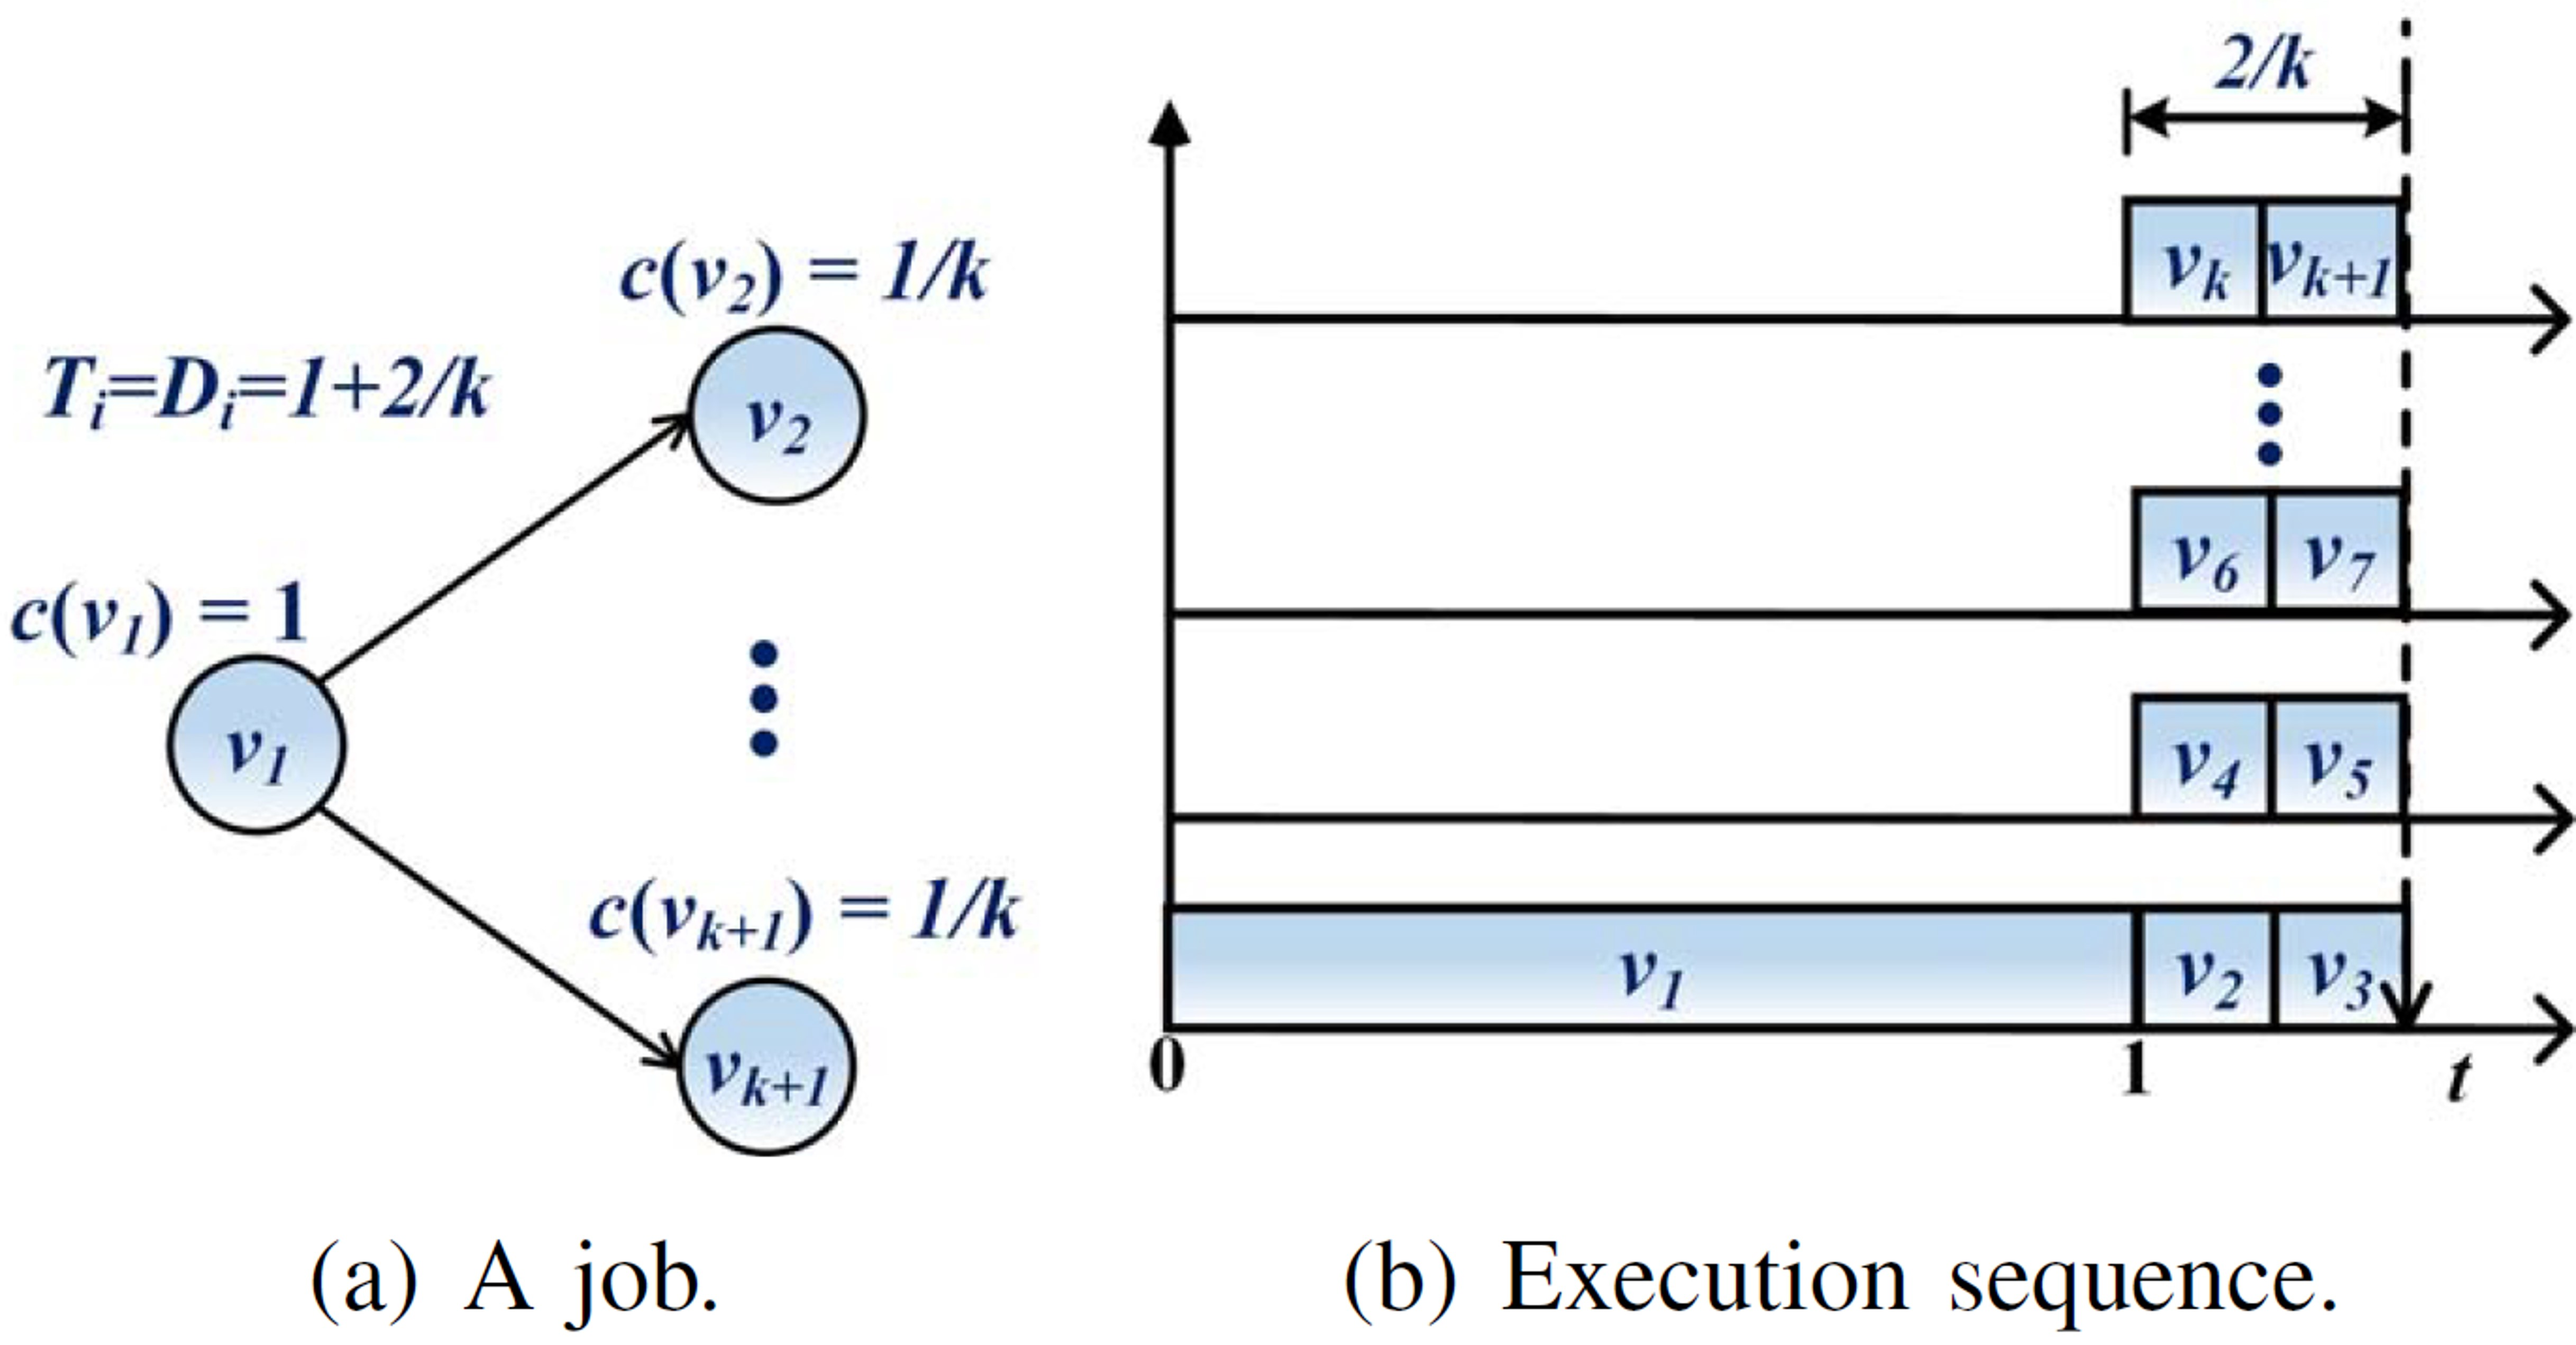
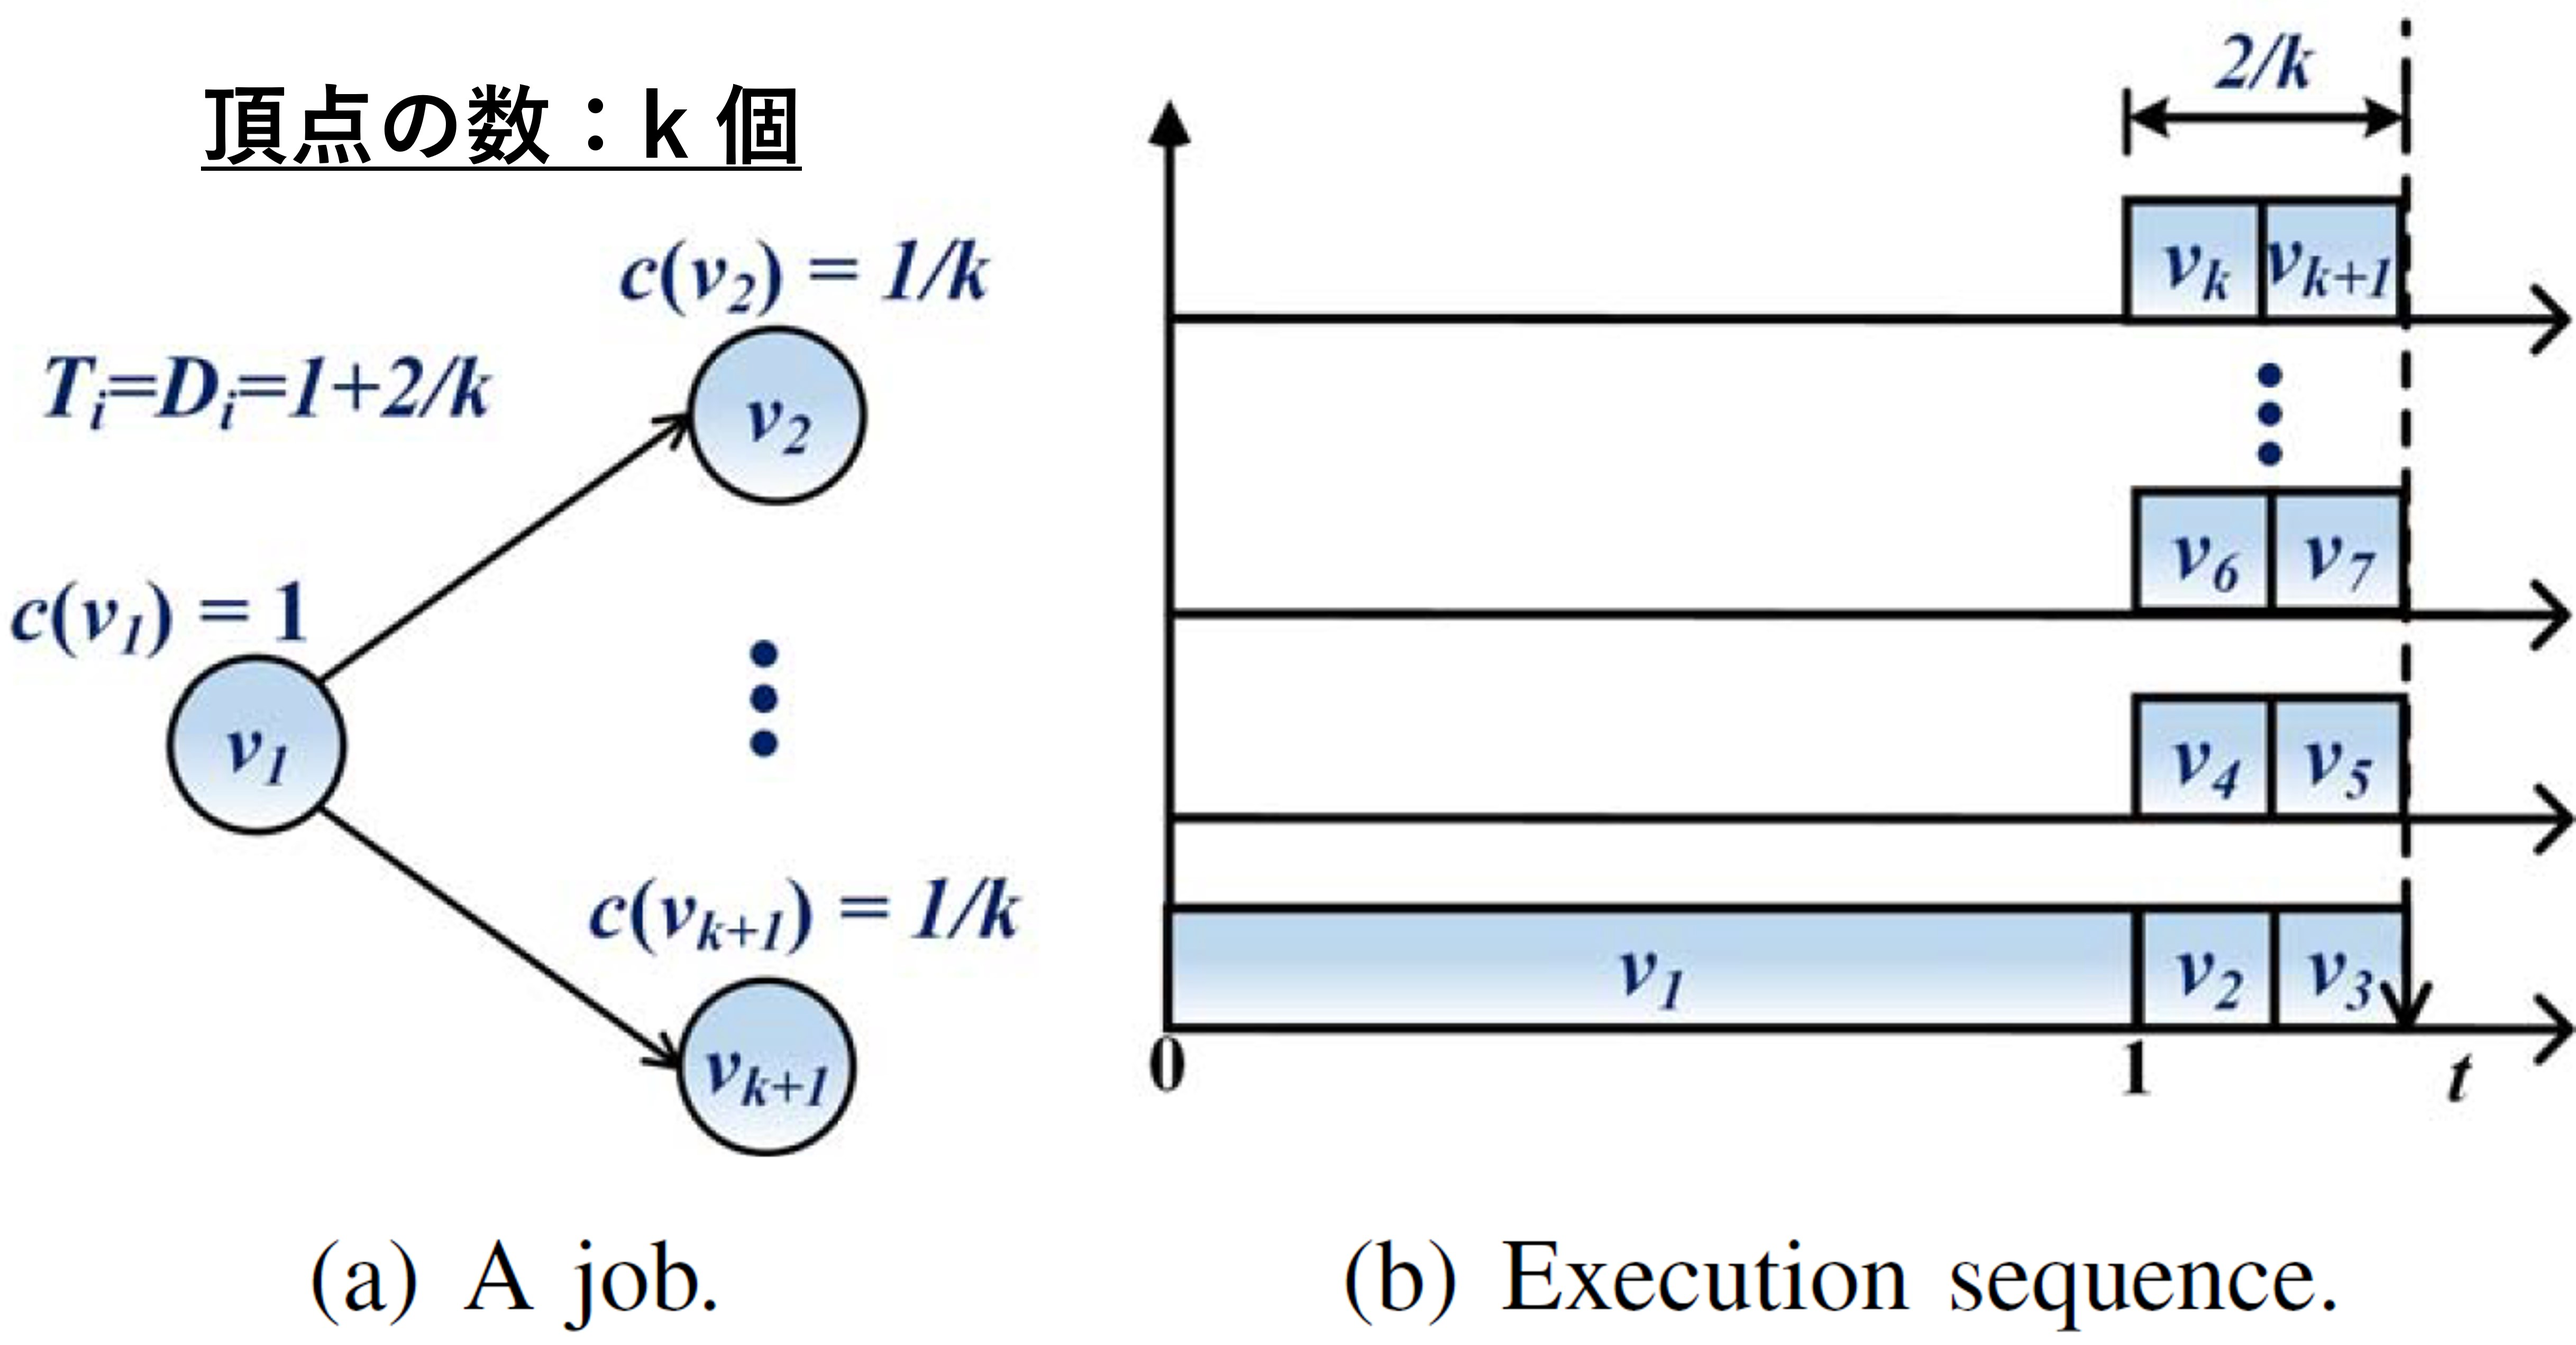
brash up

Changed region(s): [[0.0624, 0.0621, 0.2185, 0.1242], [0.2497, 0.0621, 0.3121, 0.1242]]

diff --git a/paper/2021_RTSS_Virtually_Federated_Scheduling_of_Parallel_Real_Time_Tasks/tasks_executed_on_passive_vp.tex b/paper/2021_RTSS_Virtually_Federated_Scheduling_of_Parallel_Real_Time_Tasks/tasks_executed_on_passive_vp.tex
@@ -4,13 +4,15 @@
 \label{sec: tasks executed on passive-vp}
 
 \begin{frame}{パッシブ VP}
-    \begin{itemize}
-        \item プロセッサ上のアクティブ VP によって残された未使用の処理能力は, パッシブ VP として他のタスクに割り当てられる
-              \begin{itemize}
-                  \item このとき, パッシブVPはアクティブVPの対であると言う
-              \end{itemize}
-        \item パッシブ VP はそのプロセッサでアクティブ VP が実行されていない場合にのみ実行できる
-    \end{itemize}
+    \begin{definition}[パッシブVP]
+        \setlength{\linewidth}{0.98\columnwidth}
+        \begin{itemize}
+            \item プロセッサ上のアクティブ VP によって残された未使用の処理能力は, パッシブ VP として他のタスクに割り当てられる
+                  \begin{itemize}
+                      \item このとき, パッシブVPはアクティブVPの対であると言う
+                  \end{itemize}
+            \item パッシブ VP はそのプロセッサでアクティブ VP が実行されていない場合にのみ実行できる
+        \end{itemize}
 \end{frame}
 
 \begin{frame}{タスクの実行方法}
@@ -37,7 +39,6 @@
         \begin{itemize}
             \item ジョブ $J_{i}$ はアクティブ VP グループ $\Theta=\left\{\theta_{1}=\right.$  $\left.6, \theta_{2}=2\right\}$ によって処理され, 未使用の処理能力は, $J_{k}$ を処理するパッシブ VP グループを形成する
             \item $J_{k}$ はアクティブ VP がビジーでない場合にパッシブ VP で実行される
-
         \end{itemize}
     }{passive_vp}
 \end{frame}
@@ -50,7 +51,7 @@
 }
 
 \begin{frame}{供給境界関数}
-    各パッシブ VP $\pi_{x}$ について, 供給境界関数 $s b f_{\pi_{x}}(\Delta)$ を導き出すことができる
+    各パッシブ VP $\pi_{x}$ について, 供給境界関数 $s b f_{\pi_{x}}(\Delta)$ が導き出せる
     \begin{block}{供給境界関数 $s b f_{\pi_{x}}(\Delta)$}
         長さ $\Delta$ の任意の時間間隔で $\pi_{x}$ によって提供される処理能力の最小量を示す
     \end{block}

diff --git a/paper/2021_RTSS_Virtually_Federated_Scheduling_of_Parallel_Real_Time_Tasks/tasks_executed_on_active_vp.tex b/paper/2021_RTSS_Virtually_Federated_Scheduling_of_Parallel_Real_Time_Tasks/tasks_executed_on_active_vp.tex
@@ -4,11 +4,18 @@
 \label{sec: tasks executed on active-vp}
 
 \begin{frame}{アクティブ VP グループ}
+    \begin{definition}[アクティブVP]
+        \begin{itemize}
+            \item 各物理プロセッサはアクティブ VP を最大 1 つ構築する
+            \item アクティブVPはそのプロセッサ上で最高の優先度で実行される
+            \item 各アクティブVPは固有のバジェットを持つ
+        \end{itemize}
+    \end{definition}
+    \vspace{5mm}
     \begin{itemize}
         \item アクティブ VP グループは, 異なるプロセッサ上の複数のアクティブ VP で構成される
         \item 各アクティブ VP グループはただ 1 つのタスクを処理する
-        \item 各物理プロセッサはアクティブ VP を最大 1 つホストする
-        \item アクティブVPはそのプロセッサ上で最高の優先度で実行される
+        \setlength{\linewidth}{0.98\columnwidth}
     \end{itemize}
 \end{frame}
 
@@ -51,10 +58,7 @@
     \begin{itemize}
         \item $\Theta$ の最初のアクティブ VP をリーディングアクティブVPとする
               \begin{definition}[リーディングアクティブ VP]
-                  \begin{itemize}
-                      \item 対象タスクのワークロードを実行する特権を持つアクティブVP
-                      \item $\tau_{i}$ の現在のジョブに実行可能な頂点がある場合, $\Theta$ のリーディングアクティブアクティブ VP を使用する必要がある
-                  \end{itemize}
+                $\tau_{i}$ の現在のジョブに実行可能な頂点がある場合, $\Theta$ のリーディングアクティブアクティブ VP を使用する必要がある
               \end{definition}
               \vspace{5mm}
         \item 非リーディングアクティブ VP は, リーディングアクティブ VP がビジーの場合にのみ, $\tau_{i}$ のワークロードを実行できる

diff --git a/paper/2021_RTSS_Virtually_Federated_Scheduling_of_Parallel_Real_Time_Tasks/overview.tex b/paper/2021_RTSS_Virtually_Federated_Scheduling_of_Parallel_Real_Time_Tasks/overview.tex
@@ -12,7 +12,6 @@
 \begin{frame}{フェデレートスケジューリングの概要}
     \begin{itemize}
         \item フェデレートスケジューリングでは, 各タスク $\tau_{i}$ に$m_{i}$個のプロセッサが割り当てられ, 排他的に実行される
-        \item $m_{i}$ は次のように計算される
 
               \begin{equation*}
                   m_{i}=\left\lceil\frac{C_{i}-L_{i}}{D_{i}-L_{i}}\right\rceil
@@ -78,9 +77,7 @@
 
 \begin{frame}{提案手法の概要}
     \begin{itemize}
-        \item 本論文では, 上記の問題を体系的に解決するために, 仮想フェデレートスケジューリングアプローチを提案する
-        \item キーとなる考え方は, 各高優先度タスクの実行を管理し, 残りの処理能力をプロセッサに制御可能に分配することで, 低優先度タスクの実行とスケジューラビリティの保証に使用できるようにすること
-        \item 各物理プロセッサ上に 1 つのアクティブ VP と 1 つのパッシブ VP の 2 つの仮想プロセッサ (VP) を構築する
-        \item 2種類の仮想プロセッサを扱えるようにフェデレートスケジューリングを一般化し, 各タスクに専用のアクティブVPまたはパッシブVPのセットを割り当て, スケジューラビリティを保証する
+        \item 各物理プロセッサ上に,  高優先度で実行される 1 つのアクティブ VP と 低優先度で実行される 1 つのパッシブ VP の 2 つの仮想プロセッサ (VP) を構築する
+        \item 2 種類の仮想プロセッサを扱えるようにフェデレートスケジューリングを一般化し, 各タスクに専用のアクティブVPまたはパッシブVPのセットを割り当て, スケジューラビリティを保証する
     \end{itemize}
 \end{frame}

diff --git a/paper/2021_RTSS_Virtually_Federated_Scheduling_of_Parallel_Real_Time_Tasks/resource_allocation.tex b/paper/2021_RTSS_Virtually_Federated_Scheduling_of_Parallel_Real_Time_Tasks/resource_allocation.tex
@@ -97,9 +97,11 @@
 
 \begin{frame}{パッシブVPが有用である条件}
     \hlink{thorem2}{Theorem 2} と \hlink{thorem3}{Theorem 3} の条件より, パッシブ VP $\pi_{x}$ によって提供される処理能力がタスク $\tau_{j}$ にとって有用であるのは, 以下の場合である
+    \notes{有用である：スケジュール可能になりうる}
     \begin{equation*}
         \operatorname{sbf}_{\pi_{x}}\left(D_{j}\right)>L_{j}
     \end{equation*}
+
 \end{frame}
 
 \begin{frame}[label=lemma6]{Lemma 6}
